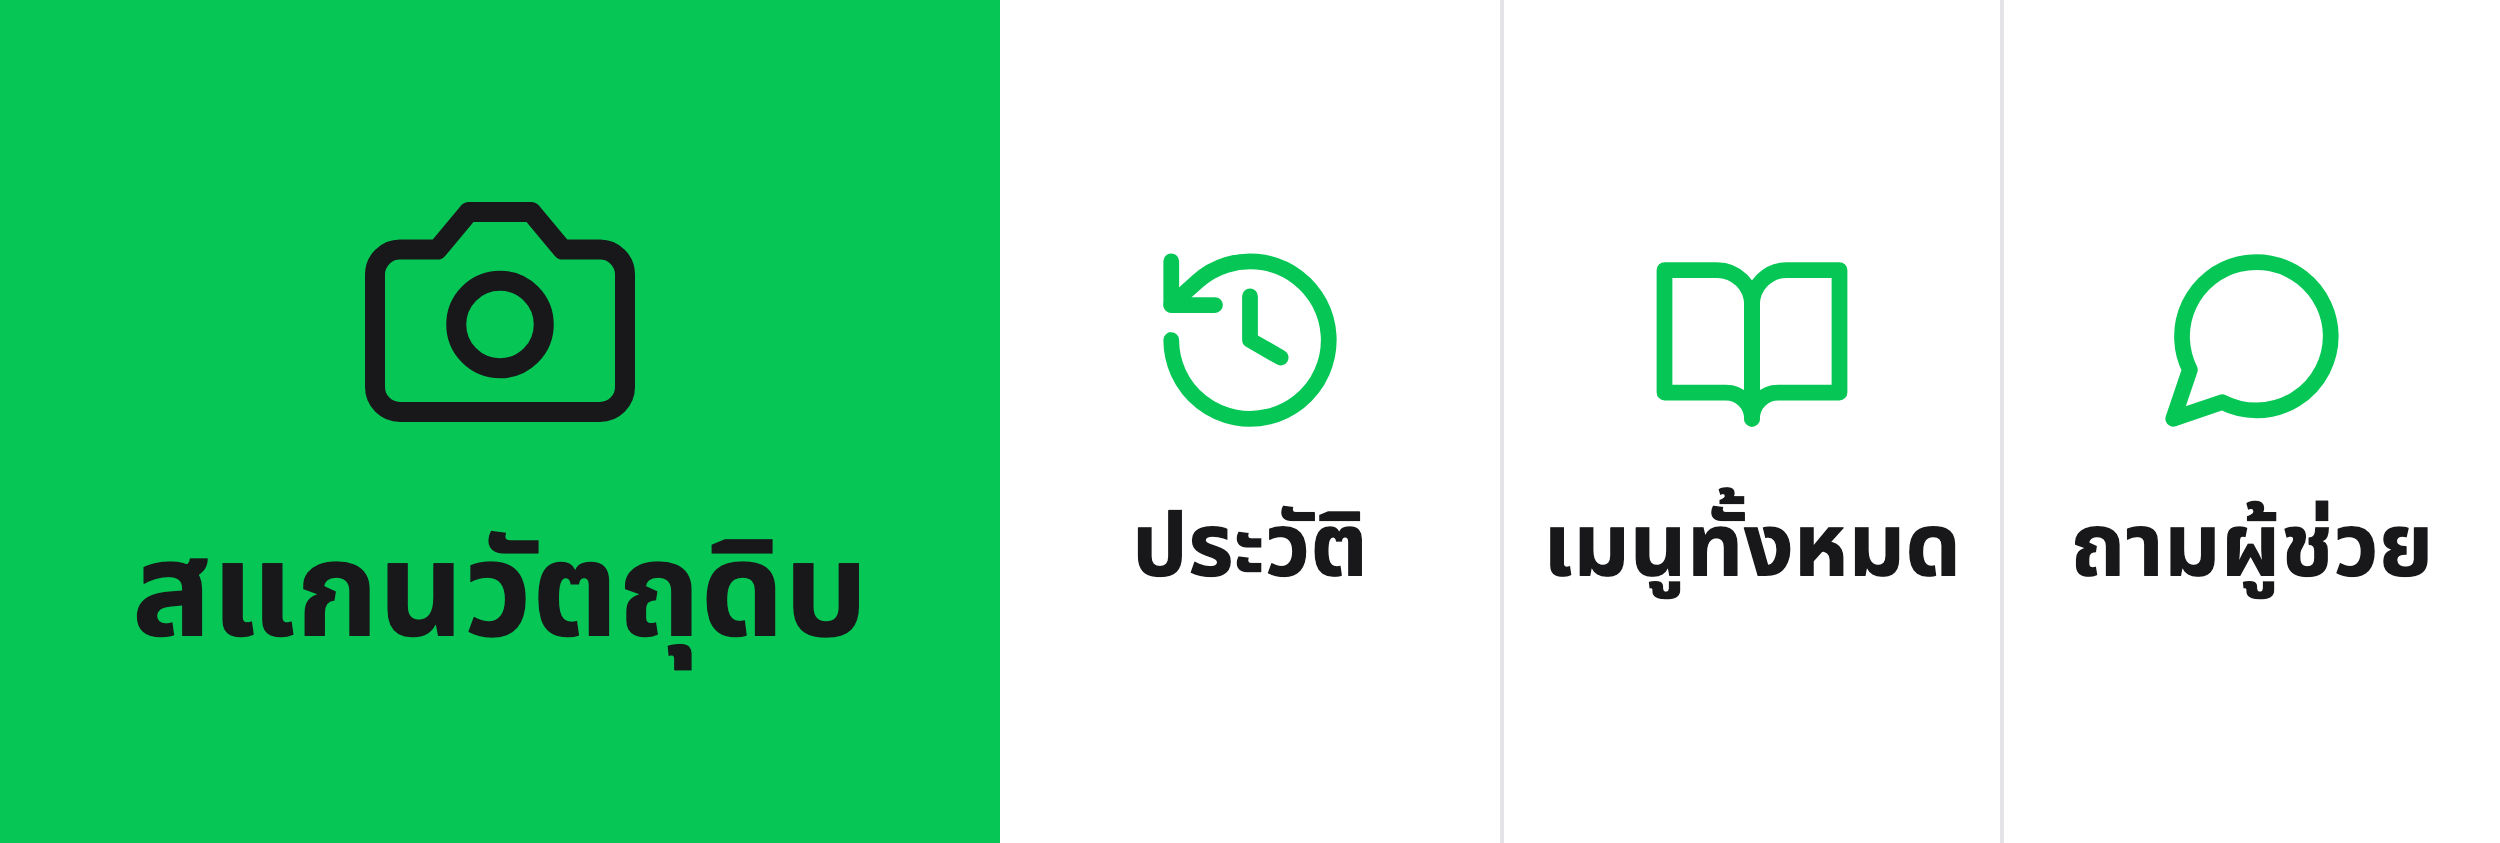
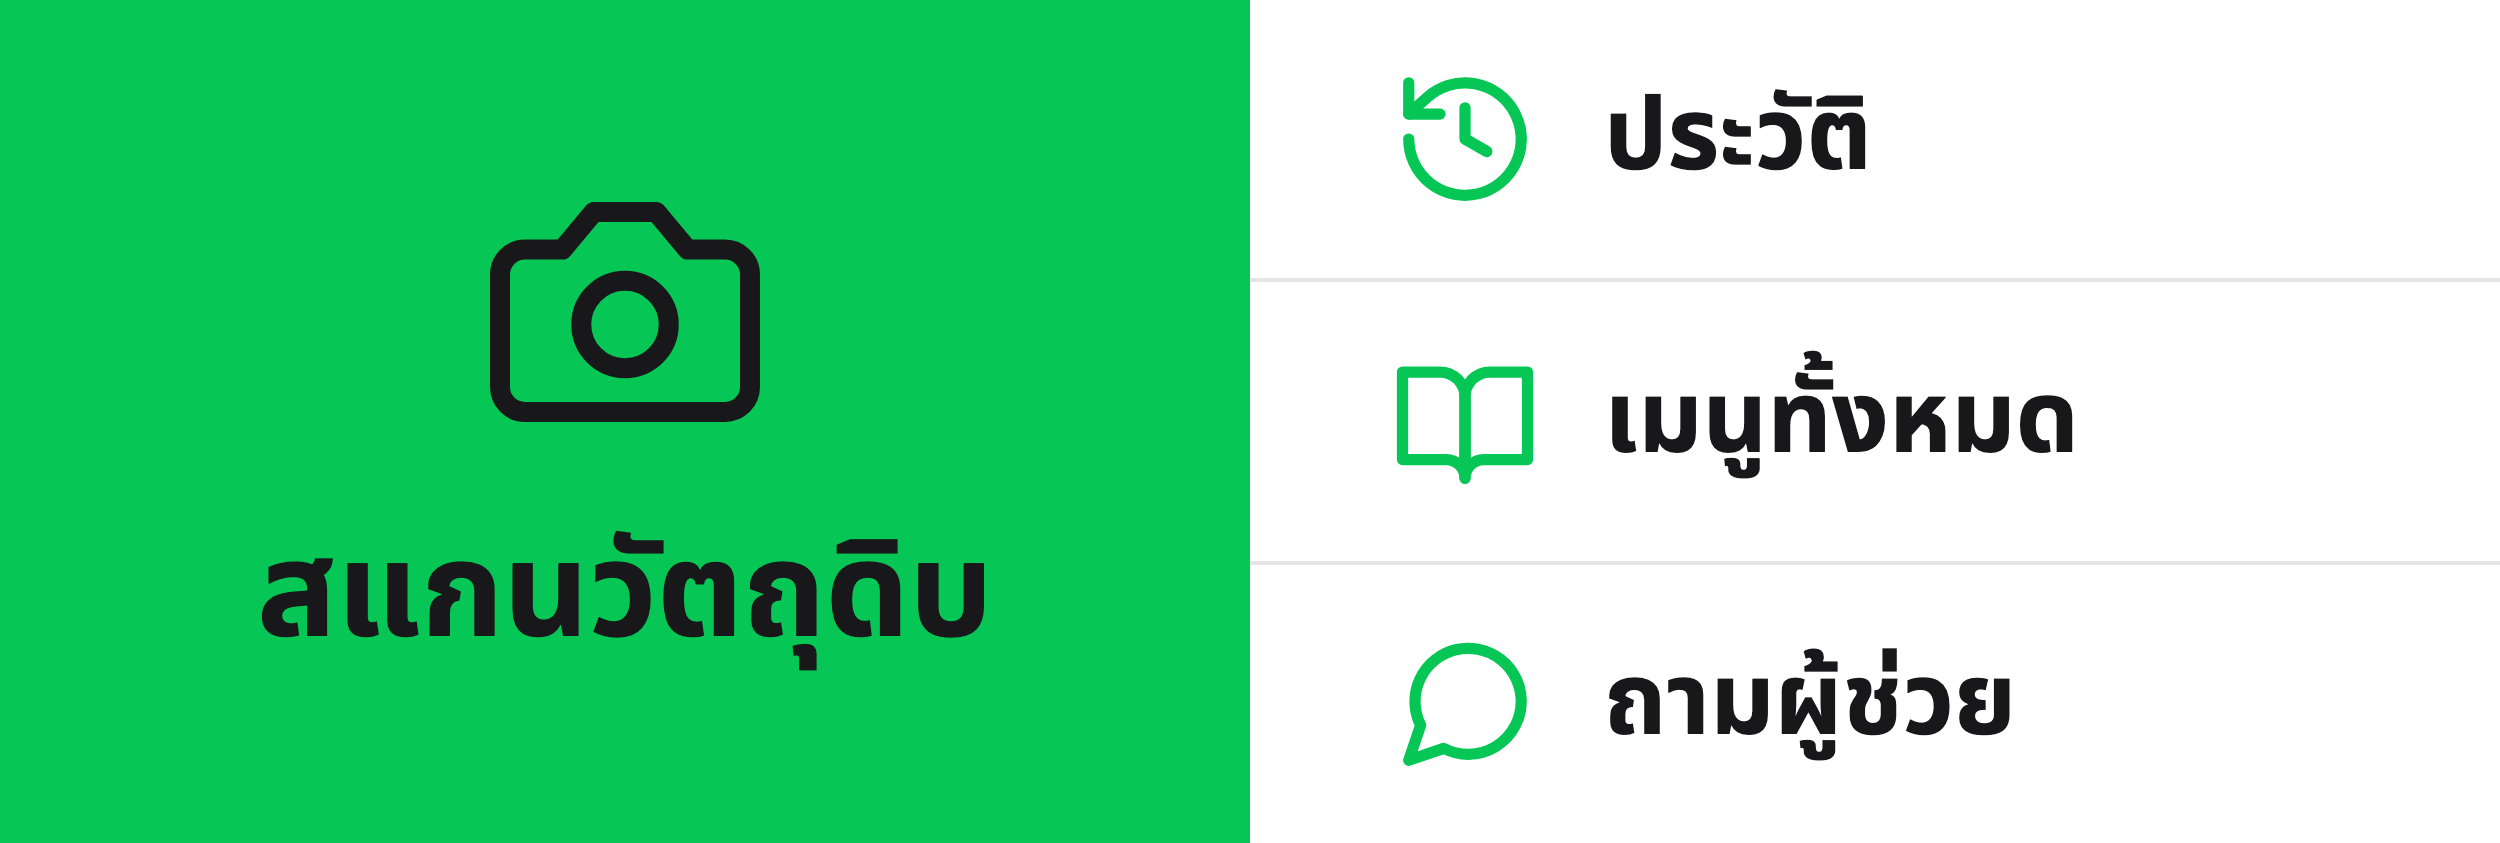
Rich menu: stack History, Menus, Ask vertically beside the Scan tile

diff --git a/design/rich-menu/rich-menu.html b/design/rich-menu/rich-menu.html
@@ -9,33 +9,36 @@
   html, body { width: 2500px; height: 843px; overflow: hidden; }
   body { display: flex; font-family: "Noto Sans Thai", sans-serif; background: #fff; color: #18181b; }
   .tile { display: flex; flex-direction: column; align-items: center; justify-content: center; gap: 48px; height: 843px; }
-  .tile svg { fill: none; stroke: currentColor; stroke-linecap: round; stroke-linejoin: round; }
-  .hero { width: 1000px; background: #06c755; color: #18181b; }
+  svg { fill: none; stroke: currentColor; stroke-linecap: round; stroke-linejoin: round; }
+  .hero { width: 1250px; background: #06c755; color: #18181b; }
   .hero svg { width: 300px; height: 300px; stroke-width: 1.6; }
   .hero span { font-size: 132px; font-weight: 700; line-height: 1.3; }
-  .small { width: 500px; border-left: 4px solid #e4e4e7; }
-  .hero + .small { border-left: 0; }
-  .small svg { width: 210px; height: 210px; stroke-width: 1.8; color: #06c755; }
-  .small span { font-size: 88px; font-weight: 700; line-height: 1.3; }
+  .stack { width: 1250px; display: flex; flex-direction: column; }
+  .row { flex: 1; display: flex; align-items: center; gap: 64px; padding-left: 140px; }
+  .row + .row { border-top: 4px solid #e4e4e7; }
+  .row svg { width: 150px; height: 150px; stroke-width: 1.8; color: #06c755; }
+  .row span { font-size: 100px; font-weight: 700; line-height: 1.3; }
 </style>
 </head>
 <body>
-  <!-- Area widths must match rich-menu.json: 1000 / 500 / 500 / 500 -->
+  <!-- Areas must match rich-menu.json: hero 1250×843, then three rows 1250×281 -->
   <div class="tile hero">
     <svg viewBox="0 0 24 24"><path d="M14.5 4h-5L7 7H4a2 2 0 0 0-2 2v9a2 2 0 0 0 2 2h16a2 2 0 0 0 2-2V9a2 2 0 0 0-2-2h-3z"/><circle cx="12" cy="13" r="3.5"/></svg>
     <span>สแกนวัตถุดิบ</span>
   </div>
-  <div class="tile small">
+  <div class="stack">
+  <div class="row">
     <svg viewBox="0 0 24 24"><path d="M3 12a9 9 0 1 0 3-6.7L3 8"/><path d="M3 3v5h5"/><path d="M12 7v5l3.5 2"/></svg>
     <span>ประวัติ</span>
   </div>
-  <div class="tile small">
+  <div class="row">
     <svg viewBox="0 0 24 24"><path d="M2 4h6a4 4 0 0 1 4 4v13a3 3 0 0 0-3-3H2z"/><path d="M22 4h-6a4 4 0 0 0-4 4v13a3 3 0 0 1 3-3h7z"/></svg>
     <span>เมนูทั้งหมด</span>
   </div>
-  <div class="tile small">
+  <div class="row">
     <svg viewBox="0 0 24 24"><path d="M21 11.5a8.5 8.5 0 0 1-12.4 7.6L3 21l1.9-5.6A8.5 8.5 0 1 1 21 11.5z"/></svg>
     <span>ถามผู้ช่วย</span>
   </div>
+</div>
 </body>
 </html>

diff --git a/design/rich-menu/README.md b/design/rich-menu/README.md
@@ -1,6 +1,6 @@
 # LINE rich menu
 
-The menu at the bottom of the LINE chat. It's a compact menu (2500×843): a big Scan tile, then History, Menus and Ask.
+The menu at the bottom of the LINE chat. It's a compact menu (2500×843): a big Scan tile on the left, with History, Menus and Ask stacked on the right.
 
 - `rich-menu.png` is the image you upload (PNG, under 1 MB).
 - `rich-menu.html` is the editable source. After editing, re-render it from this folder:
@@ -9,16 +9,16 @@ The menu at the bottom of the LINE chat. It's a compact menu (2500×843): a big 
   ```
 - `rich-menu.json` holds the tap areas and links, for the API route below. Swap the URLs for LIFF URLs once a LIFF app exists.
 
-| Tile | x | width | Opens |
+| Tile | x, y | width × height | Opens |
 |---|---|---|---|
-| สแกนวัตถุดิบ | 0 | 1000 | `/scan` |
-| ประวัติ | 1000 | 500 | `/history` |
-| เมนูทั้งหมด | 1500 | 500 | `/menus` |
-| ถามผู้ช่วย | 2000 | 500 | `/ask` |
+| สแกนวัตถุดิบ | 0, 0 | 1250 × 843 | `/scan` |
+| ประวัติ | 1250, 0 | 1250 × 281 | `/history` |
+| เมนูทั้งหมด | 1250, 281 | 1250 × 281 | `/menus` |
+| ถามผู้ช่วย | 1250, 562 | 1250 × 281 | `/ask` |
 
 ## Set it up
 
-**A. LINE Official Account Manager** (no code): go to Rich menus → Create, choose the Compact size and a template whose areas match the table above, upload `rich-menu.png`, and set each area's action to Link. If no template has the 1000/500/500/500 split, use B.
+**A. LINE Official Account Manager** (no code): go to Rich menus → Create, choose the Compact size and a template whose areas match the table above, upload `rich-menu.png`, and set each area's action to Link. If no template has this split (half-width tile on the left, three rows on the right), use B.
 
 **B. Messaging API** (any area layout). Run this locally with your channel access token. Never commit the token.
 ```bash
